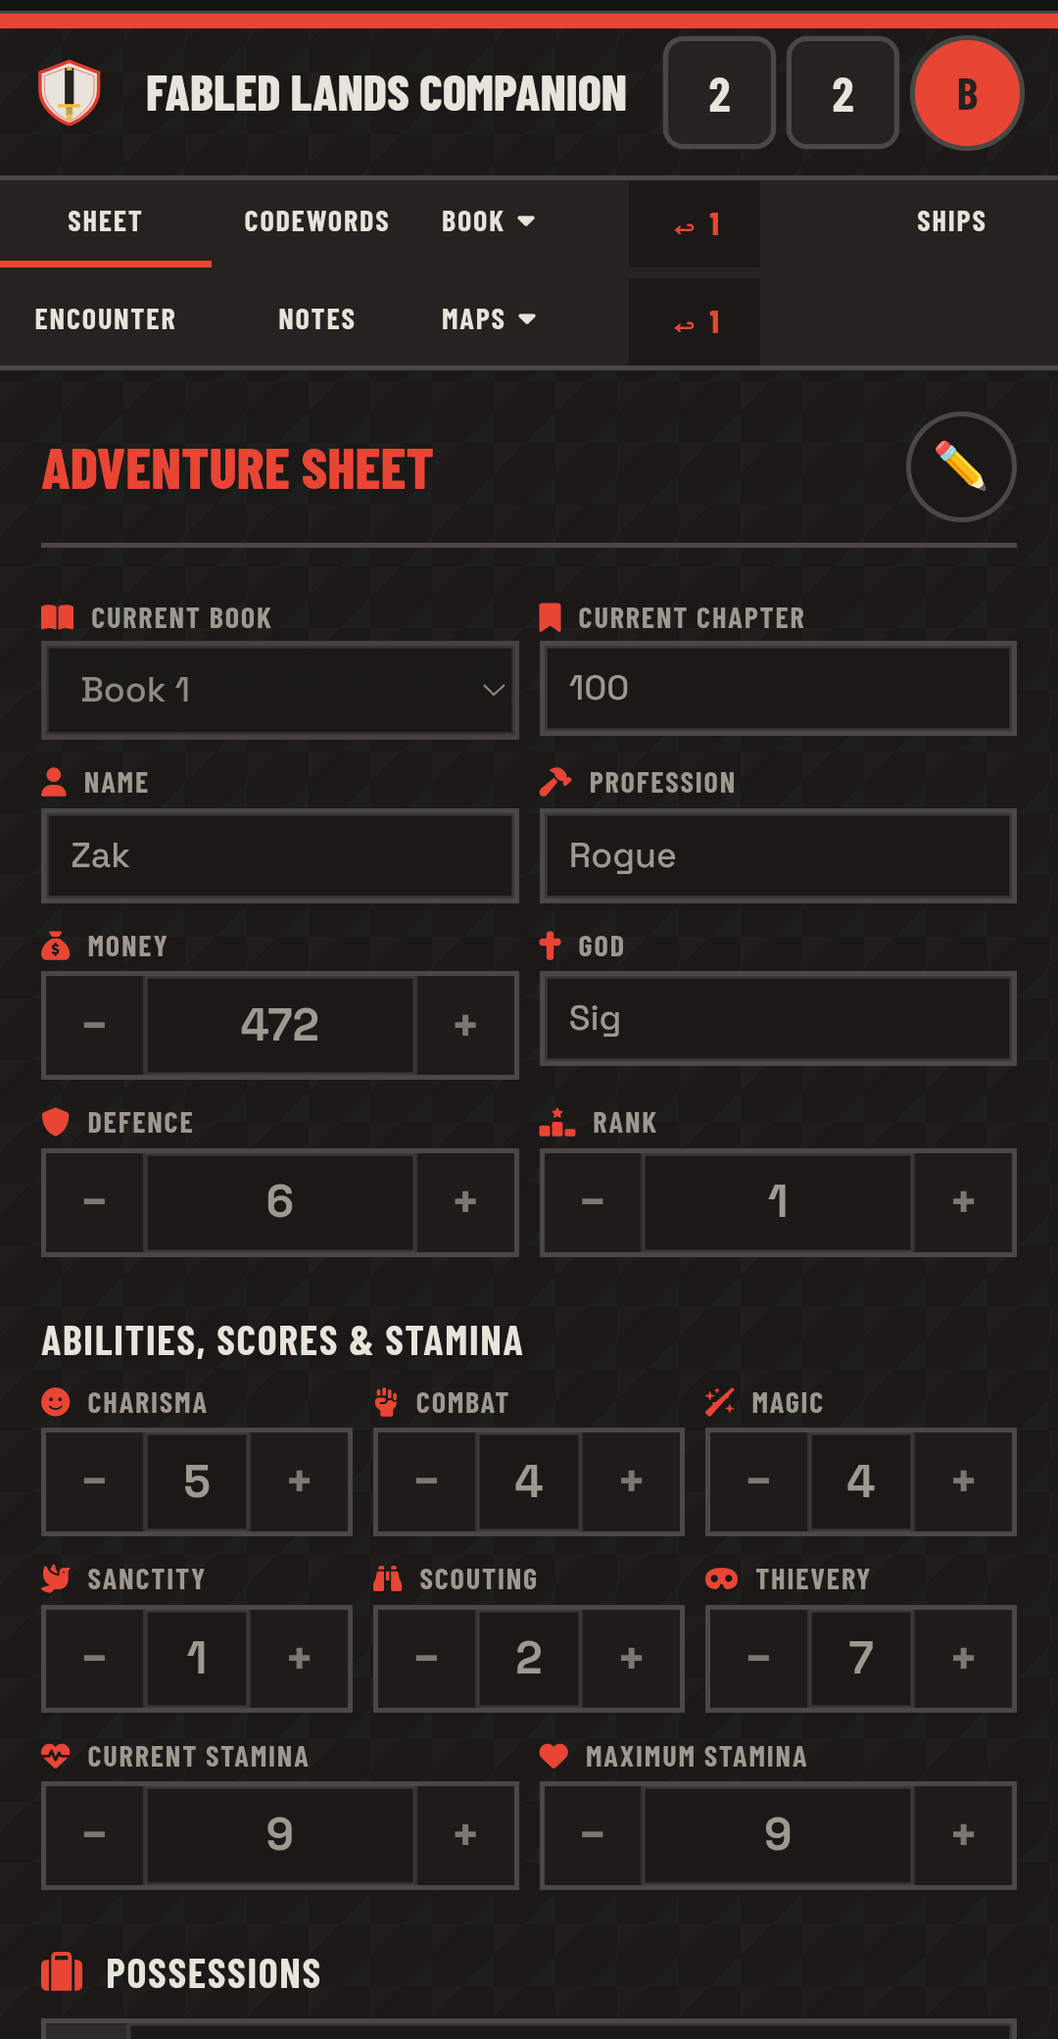
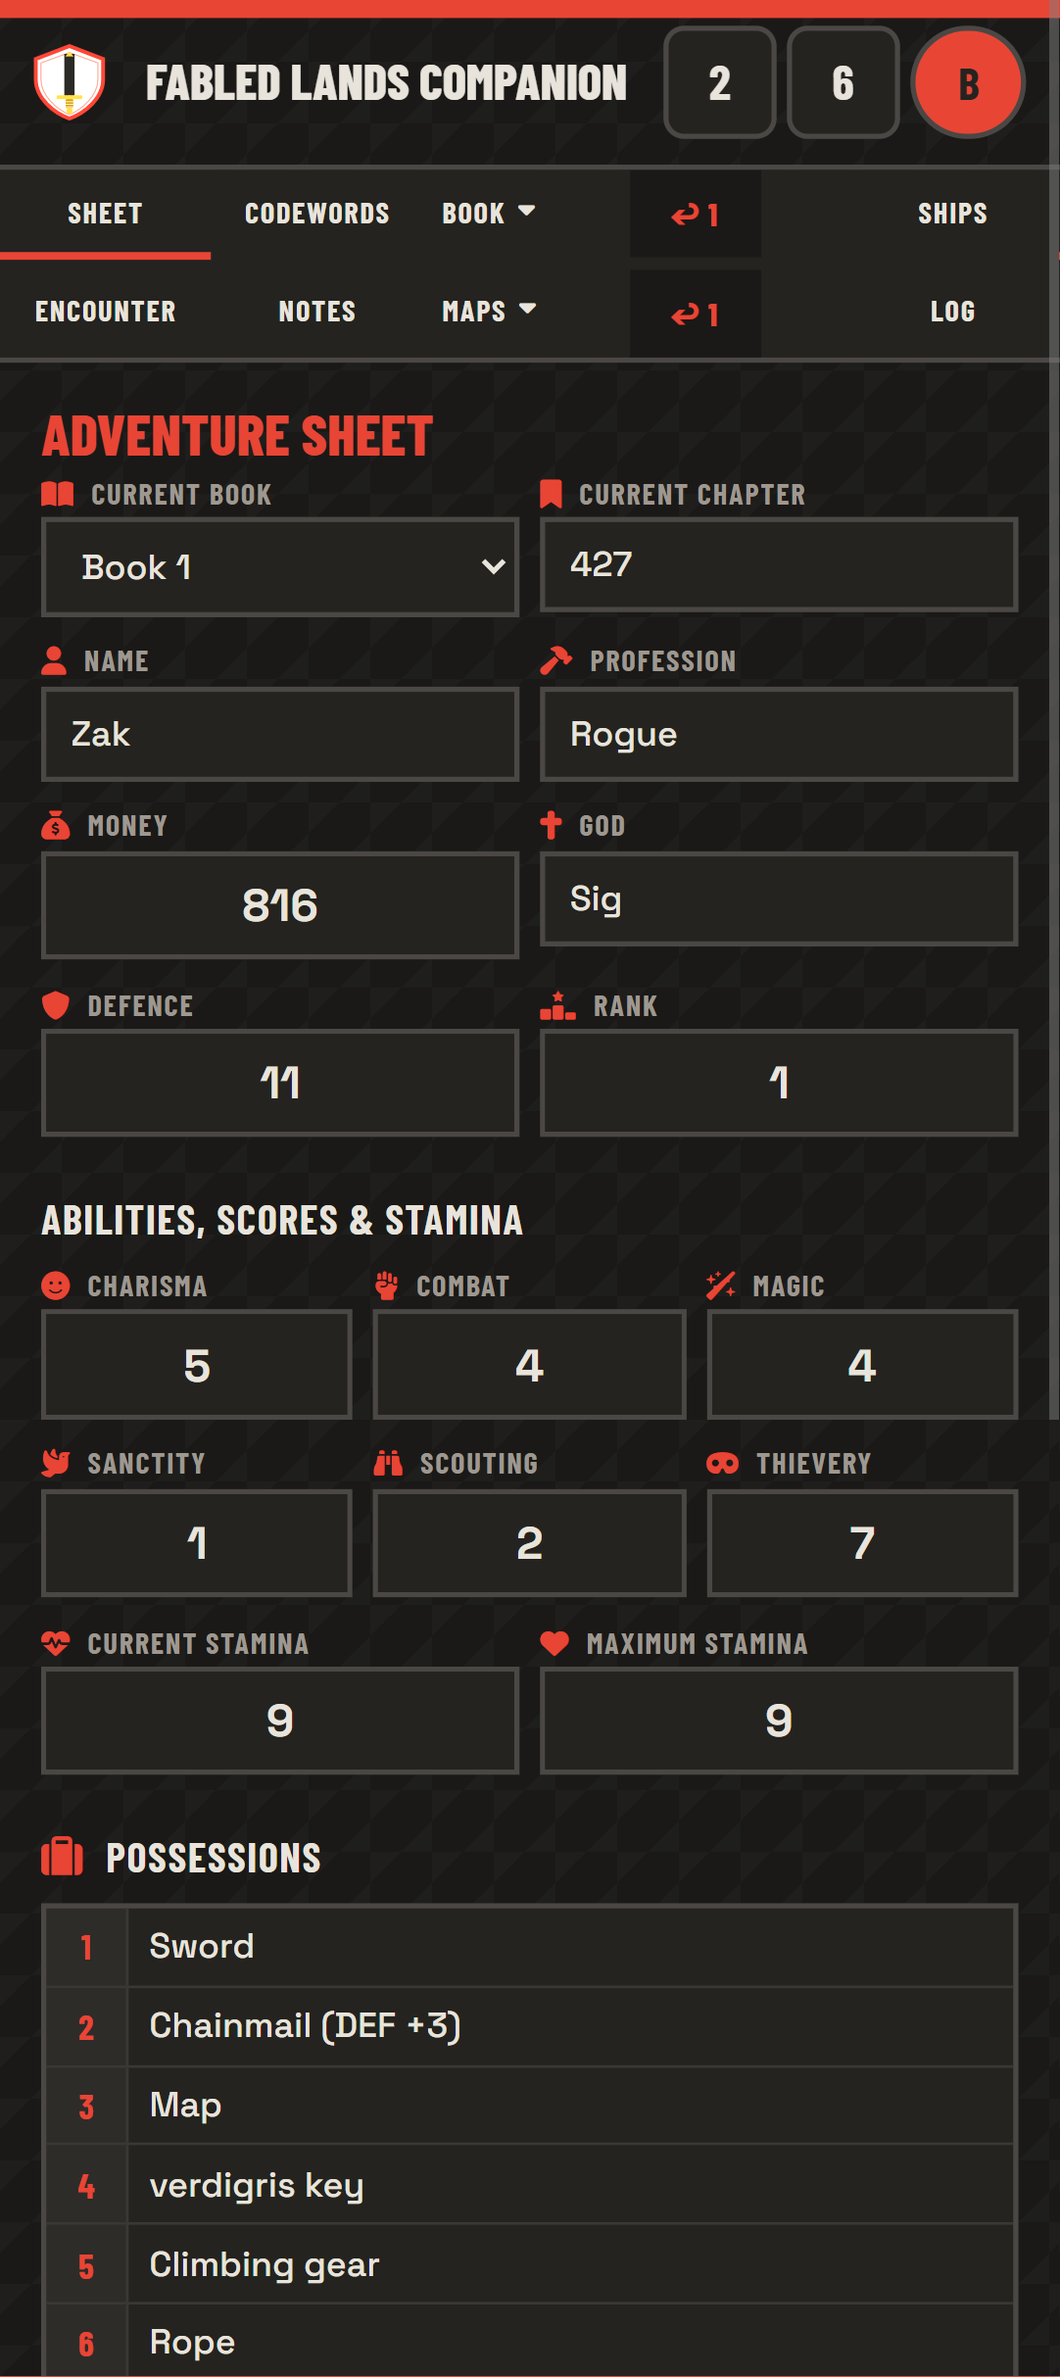
Suppressio +/- buttons and readonly mode, updated screenshots

diff --git a/index.html b/index.html
@@ -136,10 +136,7 @@
 
     <!-- ADVENTURE SHEET -->
     <section class="tab-panel active" id="panel-adventure-sheet">
-        <div class="panel-title-row">
-            <h2 class="panel-title">Adventure Sheet</h2>
-            <button class="adventure-sheet-lock-toggle" id="adventureSheetLockToggle" type="button" title="Toggle edit mode" aria-label="Toggle adventure sheet edit mode">✏</button>
-        </div>
+        <h2 class="panel-title">Adventure Sheet</h2>
         <div class="form-grid">
             <div class="form-row double">
                 <div>
@@ -173,9 +170,7 @@
                 <div class="form-field">
                     <label class="form-label"><i class="fa-solid fa-sack-dollar"></i> Money</label>
                     <div class="encounter-stepper">
-                        <button class="encounter-stepper-btn" type="button" data-target="adventure-money" data-dir="-1">−</button>
                         <input type="number" class="form-input form-number encounter-stepper-input" id="adventure-money" data-key="fl-adventure-money" value="0" min="0">
-                        <button class="encounter-stepper-btn" type="button" data-target="adventure-money" data-dir="1">+</button>
                     </div>
                 </div>
                 <div class="form-field">
@@ -187,17 +182,13 @@
                 <div class="form-field">
                     <label class="form-label"><i class="fa-solid fa-shield"></i> Defence</label>
                     <div class="encounter-stepper">
-                        <button class="encounter-stepper-btn" type="button" data-target="adventure-defence" data-dir="-1">−</button>
                         <input type="number" class="form-input form-number encounter-stepper-input" id="adventure-defence" data-key="fl-adventure-defence" value="0" min="0">
-                        <button class="encounter-stepper-btn" type="button" data-target="adventure-defence" data-dir="1">+</button>
                     </div>
                 </div>
                 <div class="form-field">
                     <label class="form-label"><i class="fa-solid fa-ranking-star"></i> Rank</label>
                     <div class="encounter-stepper">
-                        <button class="encounter-stepper-btn" type="button" data-target="adventure-rank" data-dir="-1">−</button>
                         <input type="number" class="form-input form-number encounter-stepper-input" id="adventure-rank" data-key="fl-adventure-rank" value="1" min="1">
-                        <button class="encounter-stepper-btn" type="button" data-target="adventure-rank" data-dir="1">+</button>
                     </div>
                 </div>
             </div>
@@ -209,25 +200,19 @@
                 <div class="form-field">
                     <label class="form-label"><i class="fa-solid fa-face-smile"></i> Charisma</label>
                     <div class="encounter-stepper">
-                        <button class="encounter-stepper-btn" type="button" data-target="adventure-charisma" data-dir="-1">−</button>
                         <input type="number" class="form-input form-number encounter-stepper-input" id="adventure-charisma" data-key="fl-adventure-charisma" value="1" min="1" max="12">
-                        <button class="encounter-stepper-btn" type="button" data-target="adventure-charisma" data-dir="1">+</button>
                     </div>
                 </div>
                 <div class="form-field">
                     <label class="form-label"><i class="fa-solid fa-hand-fist"></i> Combat</label>
                     <div class="encounter-stepper">
-                        <button class="encounter-stepper-btn" type="button" data-target="adventure-combat" data-dir="-1">−</button>
                         <input type="number" class="form-input form-number encounter-stepper-input" id="adventure-combat" data-key="fl-adventure-combat" value="1" min="1" max="12">
-                        <button class="encounter-stepper-btn" type="button" data-target="adventure-combat" data-dir="1">+</button>
                     </div>
                 </div>
                 <div class="form-field">
                     <label class="form-label"><i class="fa-solid fa-wand-sparkles"></i> Magic</label>
                     <div class="encounter-stepper">
-                        <button class="encounter-stepper-btn" type="button" data-target="adventure-magic" data-dir="-1">−</button>
                         <input type="number" class="form-input form-number encounter-stepper-input" id="adventure-magic" data-key="fl-adventure-magic" value="1" min="1" max="12">
-                        <button class="encounter-stepper-btn" type="button" data-target="adventure-magic" data-dir="1">+</button>
                     </div>
                 </div>
             </div>
@@ -235,25 +220,19 @@
                 <div class="form-field">
                     <label class="form-label"><i class="fa-solid fa-dove"></i> Sanctity</label>
                     <div class="encounter-stepper">
-                        <button class="encounter-stepper-btn" type="button" data-target="adventure-sanctity" data-dir="-1">−</button>
                         <input type="number" class="form-input form-number encounter-stepper-input" id="adventure-sanctity" data-key="fl-adventure-sanctity" value="1" min="1" max="12">
-                        <button class="encounter-stepper-btn" type="button" data-target="adventure-sanctity" data-dir="1">+</button>
                     </div>
                 </div>
                 <div class="form-field">
                     <label class="form-label"><i class="fa-solid fa-binoculars"></i> Scouting</label>
                     <div class="encounter-stepper">
-                        <button class="encounter-stepper-btn" type="button" data-target="adventure-scouting" data-dir="-1">−</button>
                         <input type="number" class="form-input form-number encounter-stepper-input" id="adventure-scouting" data-key="fl-adventure-scouting" value="1" min="1" max="12">
-                        <button class="encounter-stepper-btn" type="button" data-target="adventure-scouting" data-dir="1">+</button>
                     </div>
                 </div>
                 <div class="form-field">
                     <label class="form-label"><i class="fa-solid fa-mask"></i> Thievery</label>
                     <div class="encounter-stepper">
-                        <button class="encounter-stepper-btn" type="button" data-target="adventure-thievery" data-dir="-1">−</button>
                         <input type="number" class="form-input form-number encounter-stepper-input" id="adventure-thievery" data-key="fl-adventure-thievery" value="1" min="1" max="12">
-                        <button class="encounter-stepper-btn" type="button" data-target="adventure-thievery" data-dir="1">+</button>
                     </div>
                 </div>
             </div>
@@ -261,17 +240,13 @@
                 <div class="form-field">
                     <label class="form-label"><i class="fa-solid fa-heart-pulse"></i> Current Stamina</label>
                     <div class="encounter-stepper">
-                        <button class="encounter-stepper-btn" type="button" data-target="adventure-current-stamina" data-dir="-1">−</button>
                         <input type="number" class="form-input form-number encounter-stepper-input" id="adventure-current-stamina" data-key="fl-adventure-current-stamina" value="9" min="0">
-                        <button class="encounter-stepper-btn" type="button" data-target="adventure-current-stamina" data-dir="1">+</button>
                     </div>
                 </div>
                 <div class="form-field">
                     <label class="form-label"><i class="fa-solid fa-heart"></i> Maximum Stamina</label>
                     <div class="encounter-stepper">
-                        <button class="encounter-stepper-btn" type="button" data-target="adventure-max-stamina" data-dir="-1">−</button>
                         <input type="number" class="form-input form-number encounter-stepper-input" id="adventure-max-stamina" data-key="fl-adventure-max-stamina" value="9" min="0">
-                        <button class="encounter-stepper-btn" type="button" data-target="adventure-max-stamina" data-dir="1">+</button>
                     </div>
                 </div>
             </div>
@@ -485,9 +460,7 @@
                     <div class="encounter-field">
                         <label class="form-label"><i class="fa-solid fa-heart-pulse"></i> Stamina</label>
                         <div class="encounter-stepper">
-                            <button class="encounter-stepper-btn" type="button" data-target="encounter-me-stamina" data-dir="-1">−</button>
                             <input type="number" class="form-input form-number encounter-stepper-input" id="encounter-me-stamina" min="0">
-                            <button class="encounter-stepper-btn" type="button" data-target="encounter-me-stamina" data-dir="1">+</button>
                         </div>
                     </div>
                 </div>
@@ -502,26 +475,20 @@
                         <div class="encounter-field">
                             <label class="form-label"><i class="fa-solid fa-hand-fist"></i> Combat</label>
                             <div class="encounter-stepper">
-                                <button class="encounter-stepper-btn" type="button" data-target="encounter-foe-combat" data-dir="-1">−</button>
                                 <input type="number" class="form-input form-number encounter-stepper-input" id="encounter-foe-combat" min="1" value="1">
-                                <button class="encounter-stepper-btn" type="button" data-target="encounter-foe-combat" data-dir="1">+</button>
                             </div>
                         </div>
                         <div class="encounter-field">
                             <label class="form-label"><i class="fa-solid fa-shield"></i> Defence</label>
                             <div class="encounter-stepper">
-                                <button class="encounter-stepper-btn" type="button" data-target="encounter-foe-defence" data-dir="-1">−</button>
                                 <input type="number" class="form-input form-number encounter-stepper-input" id="encounter-foe-defence" min="1" value="1">
-                                <button class="encounter-stepper-btn" type="button" data-target="encounter-foe-defence" data-dir="1">+</button>
                             </div>
                         </div>
                     </div>
                     <div class="encounter-field">
                         <label class="form-label"><i class="fa-solid fa-heart-pulse"></i> Stamina</label>
                         <div class="encounter-stepper">
-                            <button class="encounter-stepper-btn" type="button" data-target="encounter-foe-stamina" data-dir="-1">−</button>
                             <input type="number" class="form-input form-number encounter-stepper-input" id="encounter-foe-stamina" min="0" value="1">
-                            <button class="encounter-stepper-btn" type="button" data-target="encounter-foe-stamina" data-dir="1">+</button>
                         </div>
                     </div>
                 </div>

diff --git a/style.css b/style.css
@@ -39,9 +39,6 @@ h1{ margin:0; font:800 clamp(1.4rem,3vw,2.2rem)/.86 "Barlow Condensed",sans-seri
 .tab-panel.active{ display:block; }
 .panel-title{ margin:0; font:800 1.4rem/1 "Barlow Condensed",sans-serif; text-transform:uppercase; color:var(--red); }
 .panel-title-row{ display:flex; align-items:center; justify-content:space-between; gap:.75rem; border-bottom:2px solid var(--border); padding-bottom:.5rem; margin-bottom:1rem; }
-.adventure-sheet-lock-toggle{ width:2.7rem; height:2.7rem; border:2px solid var(--border); border-radius:50%; background:var(--paper); color:var(--ink); font:800 1.1rem/1 "Space Grotesk",sans-serif; cursor:pointer; display:flex; align-items:center; justify-content:center; transition:background .15s,color .15s,transform .15s; }
-.adventure-sheet-lock-toggle:hover{ background:var(--yellow); transform:translateY(-1px); }
-.adventure-sheet-lock-toggle:focus-visible{ outline:2px solid var(--red); outline-offset:3px; }
 .log-clear-btn{ width:2.7rem; height:2.7rem; border:2px solid var(--border); border-radius:50%; background:var(--paper); color:var(--ink); font:800 1.1rem/1 "Space Grotesk",sans-serif; cursor:pointer; display:flex; align-items:center; justify-content:center; transition:background .15s,color .15s,transform .15s; }
 .log-clear-btn:hover{ background:var(--red); color:var(--white); transform:translateY(-1px); }
 .section-title{ margin:1.5rem 0 .6rem; font:700 1rem/1 "Barlow Condensed",sans-serif; text-transform:uppercase; color:var(--ink); letter-spacing:.04em; }
@@ -61,47 +58,6 @@ h1{ margin:0; font:800 clamp(1.4rem,3vw,2.2rem)/.86 "Barlow Condensed",sans-seri
 .form-textarea:focus{ outline:3px solid var(--yellow); outline-offset:2px; }
 
 /* Number inputs */
-#panel-adventure-sheet.adventure-sheet-locked .form-input,
-#panel-adventure-sheet.adventure-sheet-locked .form-textarea,
-#panel-adventure-sheet.adventure-sheet-locked .encounter-stepper-input,
-#panel-adventure-sheet.adventure-sheet-locked .form-grid input,
-#panel-adventure-sheet.adventure-sheet-locked .form-grid textarea,
-#panel-adventure-sheet.adventure-sheet-locked select{
-    background:var(--paper);
-    color:var(--muted);
-    cursor:default;
-    border-color:var(--border);
-    box-shadow:inset 0 0 0 1px var(--line);
-    -moz-appearance:textfield;
-}
-#panel-adventure-sheet.adventure-sheet-locked .form-input[readonly],
-#panel-adventure-sheet.adventure-sheet-locked .form-textarea[readonly],
-#panel-adventure-sheet.adventure-sheet-locked .encounter-stepper-input[readonly],
-#panel-adventure-sheet.adventure-sheet-locked .form-grid input[readonly],
-#panel-adventure-sheet.adventure-sheet-locked .form-grid textarea[readonly]{
-    background:var(--paper);
-    color:var(--muted);
-    cursor:default;
-    border-color:var(--border);
-    box-shadow:inset 0 0 0 1px var(--line);
-    -moz-appearance:textfield;
-}
-#panel-adventure-sheet.adventure-sheet-locked select:disabled,
-#panel-adventure-sheet.adventure-sheet-locked input:disabled,
-#panel-adventure-sheet.adventure-sheet-locked textarea:disabled{
-    background:var(--paper);
-    color:var(--muted);
-    cursor:default;
-    border-color:var(--border);
-    opacity:.88;
-}
-#panel-adventure-sheet.adventure-sheet-locked .encounter-stepper-btn:disabled,
-#panel-adventure-sheet.adventure-sheet-locked .encounter-stepper-btn[disabled]{
-    background:var(--paper);
-    color:var(--muted);
-    cursor:not-allowed;
-    opacity:.72;
-}
 .form-number{ -moz-appearance:textfield; text-align:center; font-weight:700; font-size:1.1rem; min-height:2.6rem; padding:.4rem .3rem; }
 .form-number::-webkit-inner-spin-button,.form-number::-webkit-outer-spin-button{ opacity:1; height:2.4rem; }
 @media (max-width:600px){ .form-number::-webkit-inner-spin-button,.form-number::-webkit-outer-spin-button{ height:2.2rem; } }
@@ -194,10 +150,6 @@ h1{ margin:0; font:800 clamp(1.4rem,3vw,2.2rem)/.86 "Barlow Condensed",sans-seri
 .encounter-stepper-input{ flex:1; min-width:0; border:none; border-radius:0; text-align:center; min-height:2.4rem; }
 .encounter-stepper-input::-webkit-inner-spin-button,.encounter-stepper-input::-webkit-outer-spin-button{ -webkit-appearance:none; margin:0; }
 .encounter-stepper-input{ -moz-appearance:textfield; }
-.encounter-stepper-btn{ flex:0 0 2.4rem; font:700 1.2rem/1 "Space Grotesk",sans-serif; color:var(--ink); background:var(--paper); border:none; border-left:1px solid var(--line); cursor:pointer; display:flex; align-items:center; justify-content:center; transition:background .1s; -webkit-tap-highlight-color:transparent; }
-.encounter-stepper-btn:first-child{ border-left:none; border-right:1px solid var(--line); }
-.encounter-stepper-btn:hover{ background:var(--yellow); }
-.encounter-stepper-btn:active{ background:var(--ink); color:var(--white); }
 .form-field .encounter-stepper{ width:100%; }
 
 /* Dark theme overrides */
@@ -206,9 +158,7 @@ h1{ margin:0; font:800 clamp(1.4rem,3vw,2.2rem)/.86 "Barlow Condensed",sans-seri
 [data-theme="dark"] .ship-actions{ background:rgba(255,255,255,.03); }
 [data-theme="dark"] .tab-subitem:hover{ color:var(--paper); }
 [data-theme="dark"] .tab-recall:hover{ color:var(--paper); }
-[data-theme="dark"] .encounter-stepper-btn:hover{ color:var(--paper); }
 [data-theme="dark"] .ship-action-btn.active{ color:var(--paper); }
-[data-theme="dark"] .adventure-sheet-lock-toggle:hover{ color:var(--paper); }
 [data-theme="dark"] .user-menu button:hover{ background:#2e2d2a; }
 [data-theme="dark"] .tab:hover{ background:rgba(255,255,255,.06); }
 [data-theme="dark"] .map-image{ filter:brightness(0.82) contrast(1.05); }

diff --git a/script.js b/script.js
@@ -616,51 +616,6 @@ document.getElementById('mapsDropdown').querySelector('.tab-dropdown-toggle').ad
     }
 });
 
-const adventureSheetPanel = document.getElementById('panel-adventure-sheet');
-const adventureSheetLockToggle = document.getElementById('adventureSheetLockToggle');
-let adventureSheetLocked = true;
-
-function applyAdventureSheetLockMode(locked) {
-    if (!adventureSheetPanel || !adventureSheetLockToggle) return;
-
-    const fields = Array.from(adventureSheetPanel.querySelectorAll('[data-key]'));
-    fields.forEach(function(el) {
-        if (el.tagName === 'SELECT') {
-            el.disabled = locked;
-            el.setAttribute('aria-disabled', locked ? 'true' : 'false');
-            return;
-        }
-        if (el.type === 'checkbox' || el.type === 'radio') {
-            el.disabled = locked;
-            return;
-        }
-        if (el.type === 'text' || el.type === 'number' || el.type === 'textarea' || el.tagName === 'TEXTAREA') {
-            el.readOnly = locked;
-            el.disabled = false;
-        }
-    });
-
-    const stepperButtons = Array.from(adventureSheetPanel.querySelectorAll('.encounter-stepper-btn'));
-    stepperButtons.forEach(function(btn) {
-        btn.disabled = locked;
-    });
-
-    adventureSheetPanel.classList.toggle('adventure-sheet-locked', locked);
-    adventureSheetPanel.classList.toggle('adventure-sheet-editing', !locked);
-    adventureSheetLockToggle.textContent = locked ? '✏' : '🔒';
-    adventureSheetLockToggle.setAttribute('aria-pressed', String(!locked));
-    adventureSheetLockToggle.title = locked ? 'Switch to edit mode' : 'Return to locked mode';
-}
-
-if (adventureSheetLockToggle) {
-    adventureSheetLockToggle.addEventListener('click', function() {
-        adventureSheetLocked = !adventureSheetLocked;
-        applyAdventureSheetLockMode(adventureSheetLocked);
-    });
-}
-
-applyAdventureSheetLockMode(adventureSheetLocked);
-
 /* Auto-save form fields */
 document.querySelectorAll('[data-key]').forEach(function(el) {
     if (!ALL_KEYS.includes(el.dataset.key)) ALL_KEYS.push(el.dataset.key);
@@ -1280,23 +1235,6 @@ function actualiserFight() {
     if (adventureDefence) meDefence.value = adventureDefence.value;
     if (adventureStamina) meStamina.value = adventureStamina.value;
 }
-
-document.querySelectorAll('.encounter-stepper-btn').forEach(function(btn) {
-    btn.addEventListener('click', function() {
-        var target = document.getElementById(this.dataset.target);
-        if (!target) return;
-        var step = parseInt(this.dataset.dir);
-        var min = parseInt(target.min);
-        var max = parseInt(target.max);
-        var val = parseInt(target.value) || 0;
-        val = val + step;
-        if (!isNaN(min)) val = Math.max(min, val);
-        if (!isNaN(max)) val = Math.min(max, val);
-        target.value = val;
-        target.dispatchEvent(new Event('input', { bubbles: true }));
-        target.dispatchEvent(new Event('change', { bubbles: true }));
-    });
-});
 
 document.getElementById('encounter-me-stamina').addEventListener('input', function() {
     var adventureStamina = document.querySelector('[data-key="fl-adventure-current-stamina"]');
